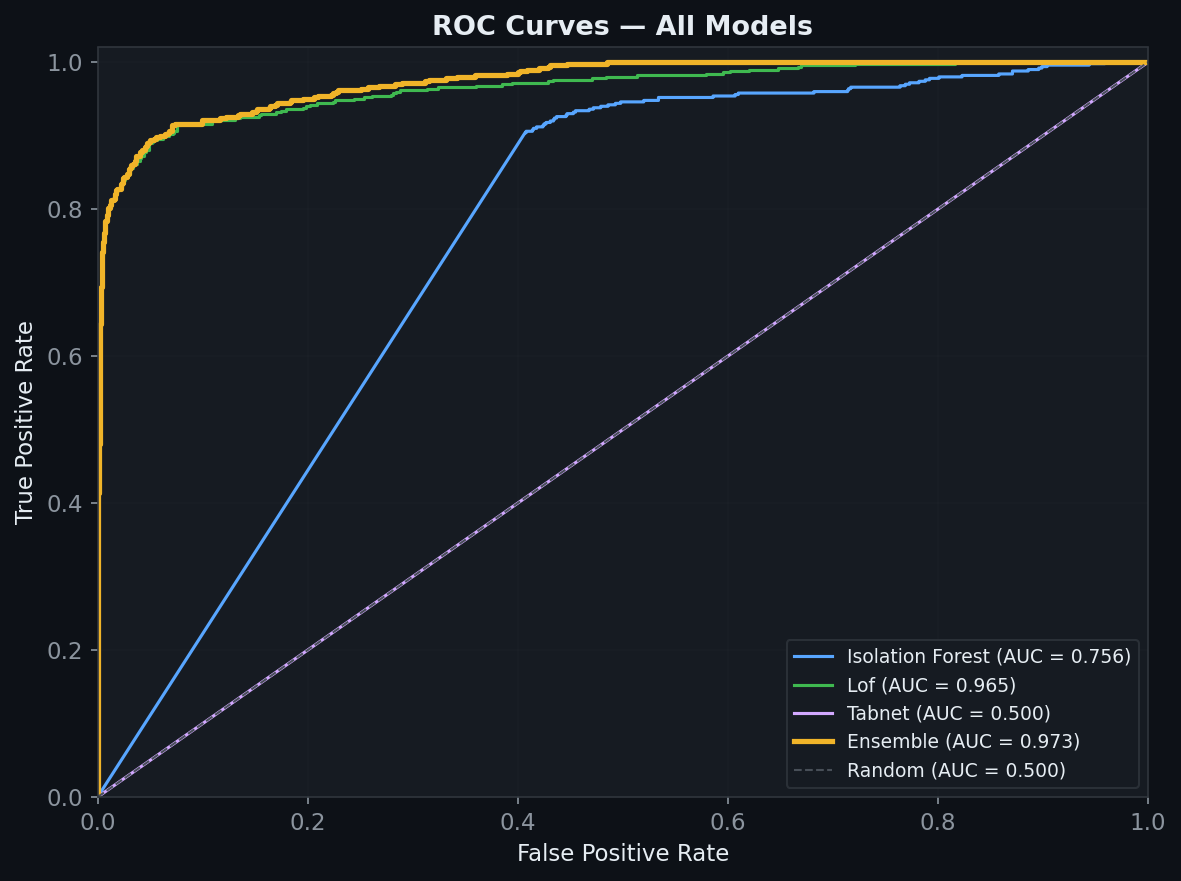
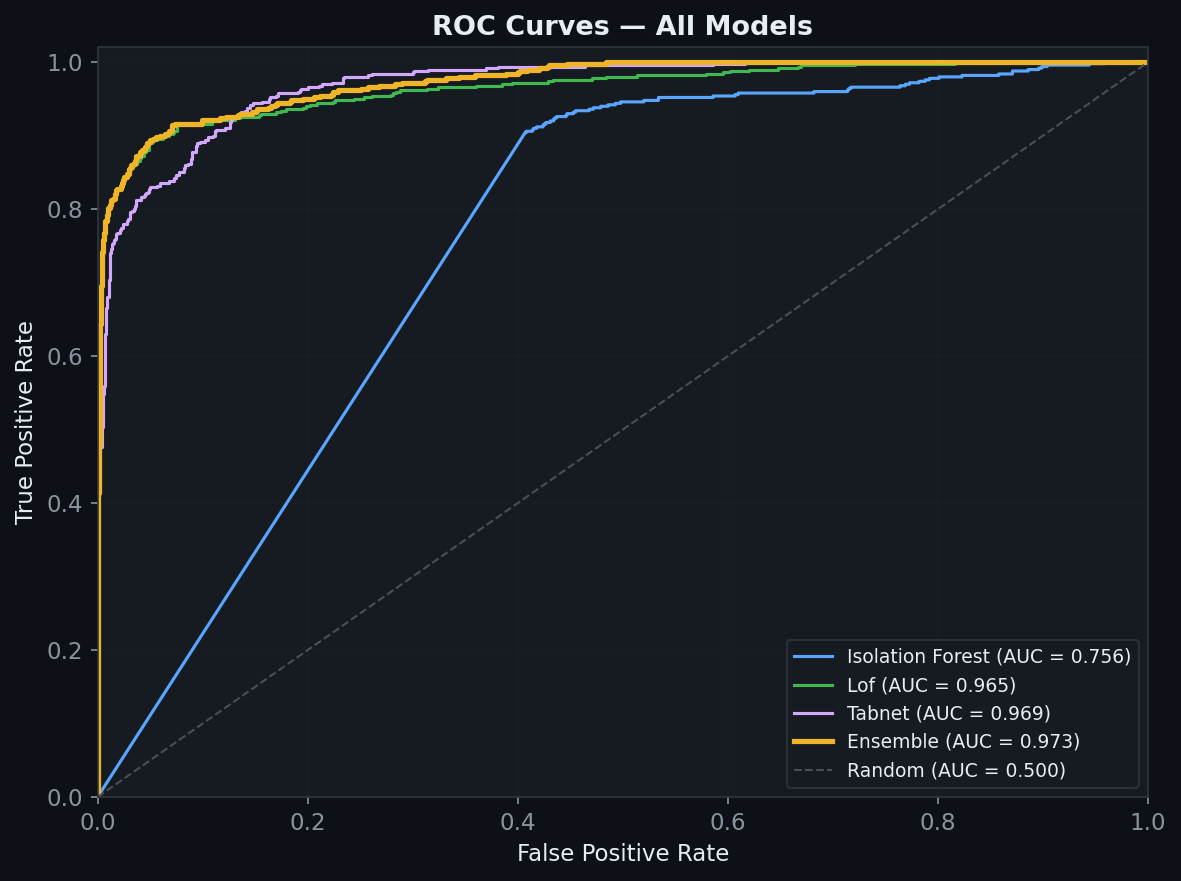
fix: ml model missing in evaluate.py file

diff --git a/ml/evaluate.py b/ml/evaluate.py
@@ -48,6 +48,8 @@ warnings.filterwarnings("ignore")
 
 # ── Paths ──────────────────────────────────────────────────────────────────────
 ROOT_DIR     = Path(__file__).parent.parent
+import sys
+sys.path.insert(0, str(ROOT_DIR))
 DATA_DIR     = ROOT_DIR / "data"
 ARTIFACT_DIR = Path(__file__).parent / "artifacts"
 PLOTS_DIR    = Path(__file__).parent / "plots"
